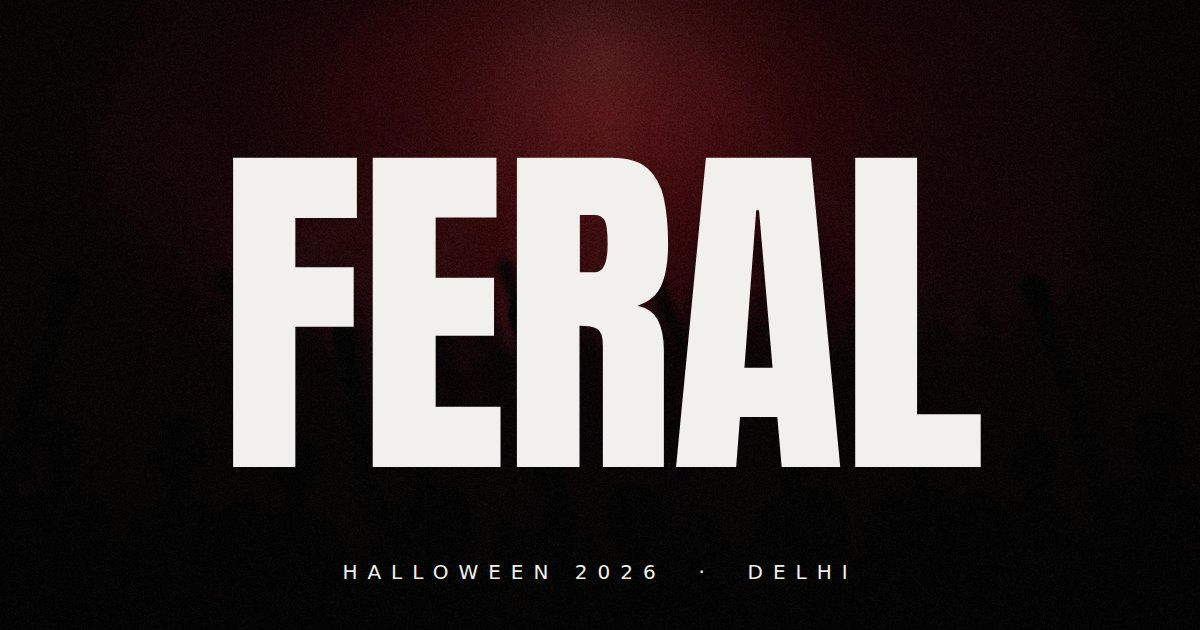
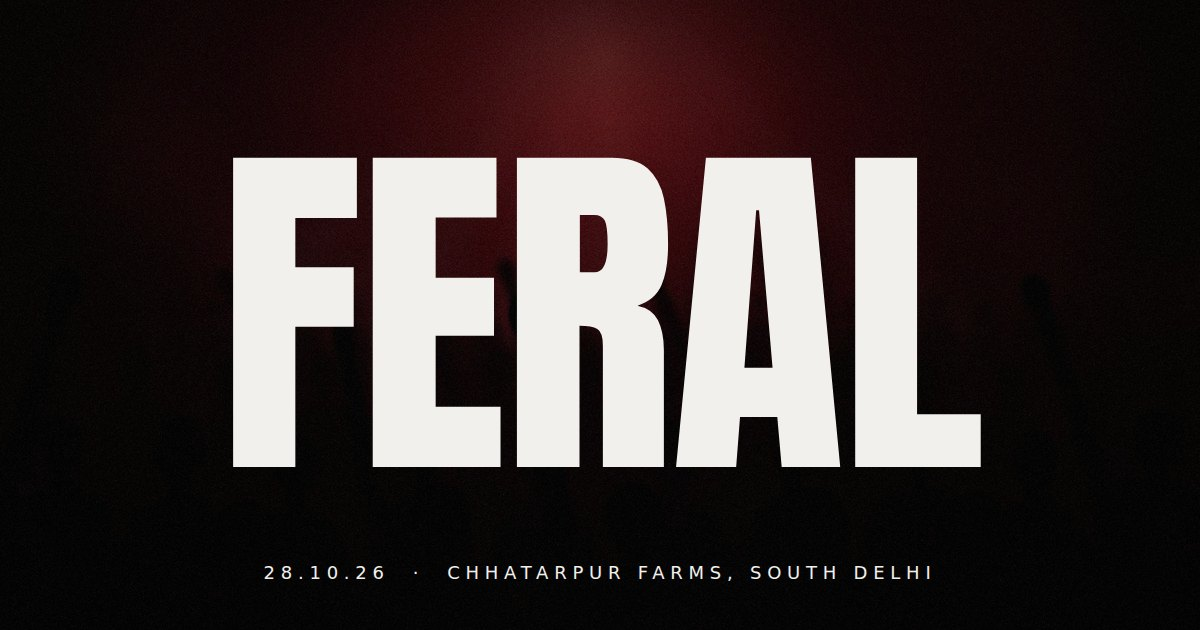
Show full date + Chhatarpur Farms venue everywhere, deepen the opening
- EVENT.location (CHHATARPUR FARMS, SOUTH DELHI) used in hero, final CTA,
  pass sheet, menu; sticky bar shows date over venue; metadata + OG image
- Intro: faint figure and fog behind the flickering whisper, cross-fades
  into the hero instead of wiping; FERAL letters no longer peek early
- Eyes rarer (16s); lighter fog/flicker on phones; reduced motion hides
  the intro figure too

Claude-Session: https://claude.ai/code/session_01VZCw5GJfF4o7RGZNzomHme

Changed region(s): [[0.2158, 0.8746, 0.7708, 0.9349]]

diff --git a/src/components/Hero.jsx b/src/components/Hero.jsx
@@ -52,8 +52,8 @@ export default function Hero({ ready }) {
       {/* A failing bulb, low fog, something watching from the crowd */}
       <div className="flicker pointer-events-none absolute inset-0 bg-ink" />
       <div className="fog pointer-events-none absolute inset-x-0 bottom-0 h-[55%]" />
-      <Eyes className="left-[14%] top-[71%] md:left-[18%] md:top-[66%]" delay="-0.8s" />
-      <Eyes className="right-[12%] top-[78%] hidden md:block" delay="6s" small />
+      <Eyes className="left-[14%] top-[71%] md:left-[18%] md:top-[66%]" delay="-1.6s" />
+      <Eyes className="right-[12%] top-[78%] hidden md:block" delay="8s" small />
 
       {/* Type */}
       <m.div
@@ -61,13 +61,13 @@ export default function Hero({ ready }) {
         style={{ y: titleY, opacity: fade }}
       >
         <h1 className="display w-full overflow-hidden text-[44vw] leading-[0.78] md:text-[min(36vw,64vh)]">
-          <span className="sr-only">FERAL — Halloween 2026, Delhi</span>
+          <span className="sr-only">{`FERAL — Halloween 2026, ${EVENT.date}, ${EVENT.location}`}</span>
           <span aria-hidden="true" className="flex justify-center">
             {'FERAL'.split('').map((ch, i) => (
               <m.span
                 key={i}
                 className="inline-block"
-                initial={{ y: '100%' }}
+                initial={{ y: '118%' }}
                 animate={ready ? { y: '0%' } : {}}
                 transition={{ duration: 1.4, delay: 0.15 + i * 0.06, ease: EASE }}
               >
@@ -86,11 +86,7 @@ export default function Hero({ ready }) {
           <p className="eyebrow text-bone/60">{EVENT.edition}</p>
           <div className="flex flex-col items-center gap-2.5">
             <p className="display text-2xl tracking-[0.04em] md:text-3xl">{EVENT.date}</p>
-            <p className="eyebrow text-bone/70">
-              {EVENT.venue}
-              <span className="mx-3 text-blood">/</span>
-              {EVENT.area}
-            </p>
+            <p className="eyebrow text-bone/80 md:text-xs">{EVENT.location}</p>
           </div>
           <button
             onClick={openPass}

diff --git a/index.html b/index.html
@@ -4,7 +4,7 @@
     <meta charset="UTF-8" />
     <meta name="viewport" content="width=device-width, initial-scale=1.0, viewport-fit=cover" />
     <title>FERAL — Halloween 2026</title>
-    <meta name="description" content="FERAL — Halloween 2026. Delhi." />
+    <meta name="description" content="FERAL — Halloween 2026. 28 October. Chhatarpur Farms, South Delhi." />
     <meta name="theme-color" content="#050505" />
     <meta name="color-scheme" content="dark" />
 
@@ -14,13 +14,13 @@
 
     <meta property="og:type" content="website" />
     <meta property="og:title" content="FERAL — Halloween 2026" />
-    <meta property="og:description" content="FERAL — Halloween 2026. Delhi." />
+    <meta property="og:description" content="FERAL — Halloween 2026. 28 October. Chhatarpur Farms, South Delhi." />
     <meta property="og:image" content="%VITE_SITE_URL%/og.jpg" />
     <meta property="og:image:width" content="1200" />
     <meta property="og:image:height" content="630" />
     <meta name="twitter:card" content="summary_large_image" />
     <meta name="twitter:title" content="FERAL — Halloween 2026" />
-    <meta name="twitter:description" content="FERAL — Halloween 2026. Delhi." />
+    <meta name="twitter:description" content="FERAL — Halloween 2026. 28 October. Chhatarpur Farms, South Delhi." />
     <meta name="twitter:image" content="%VITE_SITE_URL%/og.jpg" />
 
     <!-- Hero image, fetched before JS boots. Update if you change EVENT.hero. -->
@@ -29,7 +29,7 @@
   </head>
   <body>
     <div id="root"></div>
-    <noscript><p style="font:14px sans-serif;color:#F2F0EC;padding:24px">FERAL — Halloween 2026. Chhatarpur Farms, South Delhi. 28.10.26</p></noscript>
+    <noscript><p style="font:14px sans-serif;color:#F2F0EC;padding:24px">FERAL — Halloween 2026. 28 October 2026. Chhatarpur Farms, South Delhi.</p></noscript>
     <script type="module" src="/src/main.jsx"></script>
   </body>
 </html>

diff --git a/src/components/Intro.jsx b/src/components/Intro.jsx
@@ -25,14 +25,18 @@ export default function Intro({ onDone }) {
       {show && (
         <m.div
           key="intro"
-          className="fixed inset-0 z-[90] grid place-items-center bg-ink"
-          initial={{ clipPath: 'inset(0% 0% 0% 0%)' }}
-          exit={{ clipPath: 'inset(0% 0% 100% 0%)' }}
-          transition={{ duration: reduced ? 0.01 : 1, ease: [0.76, 0, 0.24, 1] }}
+          className="fixed inset-0 z-[90] grid place-items-center overflow-hidden bg-ink"
+          initial={{ opacity: 1 }}
+          exit={{ opacity: 0, filter: reduced ? 'none' : 'blur(6px)' }}
+          transition={{ duration: reduced ? 0.01 : 1.2, ease: [0.65, 0, 0.35, 1] }}
           aria-hidden="true"
         >
-          <div className="flex flex-col items-center gap-5 px-6 text-center">
-            <span className="whisper display text-[10vw] leading-none tracking-[0.02em] md:text-6xl">
+          {/* Something standing in the dark behind the words — barely there. */}
+          <div className="intro-figure pointer-events-none absolute inset-0 bg-[url('/images/archive/01-960.webp')] bg-cover bg-center grayscale" />
+          <div className="fog fog-intro pointer-events-none absolute inset-x-0 bottom-0 h-1/2" />
+
+          <div className="relative flex flex-col items-center gap-5 px-6 text-center">
+            <span className="whisper display text-[8vw] leading-none tracking-[0.02em] md:text-6xl">
               DON&apos;T LOOK BEHIND YOU<span className="text-blood">.</span>
             </span>
             <span className="relative h-px w-16 overflow-hidden bg-bone/15">

diff --git a/src/index.css b/src/index.css
@@ -165,11 +165,25 @@
 }
 .eyes {
   opacity: 0;
-  animation: eyes 14s ease-in-out infinite;
+  animation: eyes 16s ease-in-out infinite;
   filter: drop-shadow(0 0 4px rgba(255, 30, 30, 0.9)) drop-shadow(0 0 14px rgba(200, 10, 20, 0.6));
 }
 .eye {
-  animation: blink 14s ease-in-out infinite;
+  animation: blink 16s ease-in-out infinite;
+}
+
+/* Intro: a figure you only half see, and thinner fog. */
+@keyframes intro-figure {
+  0%, 30% { opacity: 0; }
+  100% { opacity: 0.14; }
+}
+.intro-figure {
+  opacity: 0;
+  filter: grayscale(1) blur(3px);
+  animation: intro-figure 1.8s ease-in both;
+}
+.fog-intro {
+  opacity: 0.08;
 }
 
 /* Intro whisper: a word that won't stay lit. */
@@ -183,6 +197,31 @@
 }
 .whisper {
   animation: whisper 1.6s linear both;
+}
+
+/* Phones: same atmosphere, less work for the GPU. */
+@media (max-width: 767px) {
+  .fog {
+    filter: none;
+    opacity: 0.09;
+    animation-duration: 110s;
+  }
+  .fog-intro {
+    opacity: 0.06;
+  }
+  .flicker {
+    animation-name: flicker-soft;
+  }
+  .eyes {
+    filter: drop-shadow(0 0 5px rgba(220, 20, 25, 0.8));
+  }
+}
+@keyframes flicker-soft {
+  0%, 88%, 100% { opacity: 0; }
+  89% { opacity: 0.35; }
+  89.6% { opacity: 0.05; }
+  90.4% { opacity: 0.45; }
+  91.2% { opacity: 0; }
 }
 
 @keyframes scroll-cue {
@@ -204,7 +243,8 @@
     animation: none;
   }
   .flicker,
-  .eyes {
+  .eyes,
+  .intro-figure {
     display: none;
   }
   html {

diff --git a/src/components/StickyPass.jsx b/src/components/StickyPass.jsx
@@ -35,11 +35,15 @@ export default function StickyPass() {
           transition={{ duration: 0.6, ease: [0.16, 1, 0.3, 1] }}
         >
           <button onClick={openPass} className="flex h-14 w-full items-center justify-between border border-bone/15 bg-ink/90 px-5 text-bone">
-            <span className="eyebrow flex items-center gap-3 text-bone/50">
-              <span className="h-1.5 w-1.5 bg-blood" />
-              {EVENT.dateShort} / {EVENT.city}
+            <span className="flex items-center gap-3 text-left">
+              <span className="h-1.5 w-1.5 shrink-0 bg-blood" />
+              <span className="font-sans text-[9px] font-medium uppercase leading-[1.5] tracking-[0.22em] text-bone/55">
+                {EVENT.dateShort}
+                <br />
+                {EVENT.venue}
+              </span>
             </span>
-            <span className="display text-xl tracking-[0.03em]">GET YOUR PASS →</span>
+            <span className="display shrink-0 text-xl tracking-[0.03em]">GET YOUR PASS →</span>
           </button>
         </m.div>
       )}

diff --git a/src/components/FinalCTA.jsx b/src/components/FinalCTA.jsx
@@ -20,12 +20,8 @@ export default function FinalCTA() {
 
         <Fade delay={0.3} className="mt-10 flex flex-col items-center gap-8 md:mt-14">
           <div className="flex flex-col items-center gap-2">
-            <p className="display text-3xl tracking-[0.04em] md:text-4xl">{EVENT.dateShort}</p>
-            <p className="eyebrow text-bone/60">
-              {EVENT.venue}
-              <span className="mx-3 text-blood">/</span>
-              {EVENT.area}
-            </p>
+            <p className="display text-3xl tracking-[0.04em] md:text-4xl">{EVENT.date}</p>
+            <p className="eyebrow text-bone/60">{EVENT.location}</p>
           </div>
           <button
             onClick={openPass}

diff --git a/src/components/Navbar.jsx b/src/components/Navbar.jsx
@@ -97,7 +97,9 @@ export default function Navbar() {
               transition={{ delay: 0.6, duration: 0.8 }}
             >
               <span>
-                {EVENT.dateShort} — {EVENT.area}
+                {EVENT.date}
+                <br />
+                {EVENT.location}
               </span>
               {isSet(EVENT.instagram) && (
                 <a href={`https://instagram.com/${EVENT.instagram}`} target="_blank" rel="noreferrer">

diff --git a/src/data/event.js b/src/data/event.js
@@ -15,6 +15,9 @@ export const EVENT = {
   area: 'SOUTH DELHI',
   venue: 'CHHATARPUR FARMS',
   coordinates: ['28.50° N', '77.17° E'], // shown small in the hero corner
+  get location() {
+    return `${this.venue}, ${this.area}` // CHHATARPUR FARMS, SOUTH DELHI
+  },
 
   // Pass / payment
   googleFormUrl: '[GOOGLE FORM URL]',

diff --git a/src/components/PassModal.jsx b/src/components/PassModal.jsx
@@ -40,7 +40,7 @@ export default function PassModal({ onClose }) {
       })}`
     : null
 
-  const meta = [EVENT.dateShort, isSet(EVENT.venue) && EVENT.venue, EVENT.area].filter(Boolean)
+  const meta = [EVENT.date, isSet(EVENT.venue) ? EVENT.location : EVENT.area]
 
   return (
     <m.div

diff --git a/README.md b/README.md
@@ -1,6 +1,6 @@
 # FERAL — Halloween 2026
 
-One night in Delhi. React + Vite + Tailwind + Framer Motion.
+28 October 2026. Chhatarpur Farms, South Delhi. React + Vite + Tailwind + Framer Motion.
 
 ```bash
 npm install
